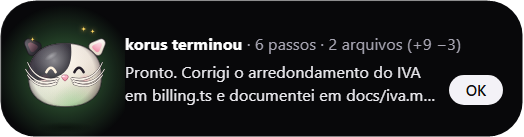
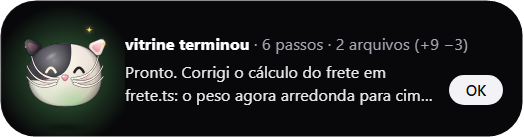
Exemplos nossos no lugar dos do Coucou: vitrine e frete.ts
- as fotos do README foram refeitas com o projeto de exemplo vitrine (uma loja), editando frete.ts
  e terminando com "Corrigi o cálculo do frete"; o cartão e o fim, com uma sessão só na conta
- korus, billing.ts e o IVA/TVA vinham do exemplo do Coucou: saem do SVG do topo, do README, dos
  comentários, dos testes e dos exemplos das specs (ideias/coucou-instagram.md, que estuda o
  Coucou, fica como está)

diff --git a/test/sessao.test.js b/test/sessao.test.js
@@ -3,7 +3,7 @@ import { test } from 'node:test';
 import { criarSessoes, somaDosArquivos, textoSimples } from '../src/sessao.js';
 
 // eventos no formato comum, como o adaptador do Claude Code entrega
-const base = { fonte: 'claude-code', sessao: 's1', projeto: 'korus' };
+const base = { fonte: 'claude-code', sessao: 's1', projeto: 'vitrine' };
 const ev = (tipo, extra = {}) => ({ ...base, tipo, resumo: tipo, ...extra });
 const ferramenta = (id, resumo) => ev('ferramenta', { ferramenta: 'Bash', passoId: id, resumo });
 const editou = (id, caminho, mais, menos) =>
@@ -15,14 +15,14 @@ const estados = s => s.passos.map(p => `${p.estado}:${p.resumo}`);
 test('os passos contam desde o último prompt, e cada um fica ✓ com o resultado dele (D1, D2)', () => {
   const S = criarSessoes();
   S.receber(ev('pensando'));
-  S.receber(ferramenta('a', 'Lendo billing.ts'));
+  S.receber(ferramenta('a', 'Lendo frete.ts'));
   S.receber(ferramenta('b', 'Rodando npm test'));
   // chamadas em paralelo: começar o b não conclui o a
-  assert.deepEqual(estados(S.obter(base)), ['atual:Lendo billing.ts', 'atual:Rodando npm test']);
+  assert.deepEqual(estados(S.obter(base)), ['atual:Lendo frete.ts', 'atual:Rodando npm test']);
   const s = S.receber(concluiu('a'));
   assert.equal(s.total, 2);
-  assert.deepEqual(estados(s), ['ok:Lendo billing.ts', 'atual:Rodando npm test']);
-  assert.equal(s.projeto, 'korus');
+  assert.deepEqual(estados(s), ['ok:Lendo frete.ts', 'atual:Rodando npm test']);
+  assert.equal(s.projeto, 'vitrine');
 
   S.receber(ev('pensando'));
   assert.equal(S.obter(base).total, 0, 'prompt novo zera');
@@ -32,7 +32,7 @@ test('os passos contam desde o último prompt, e cada um fica ✓ com o resultad
 test('um id que não está entre os 10 guardados não mexe em outro passo (Codex, 07/10)', () => {
   const S = criarSessoes();
   for (let i = 0; i <= 10; i++) S.receber(ferramenta(`p${i}`, `passo ${i}`));
-  const s = S.receber(editou('p0', 'C:\\korus\\a.ts', 7, 1));
+  const s = S.receber(editou('p0', 'C:\\vitrine\\a.ts', 7, 1));
   assert.equal(s.passos.at(-1).estado, 'atual', 'o p10 continua em curso');
   assert.equal(s.passos.at(-1).conta, null);
   assert.deepEqual(somaDosArquivos(s), { arquivos: 1, mais: 7, menos: 1 }, 'a soma do p0 conta, mesmo fora da tela');
@@ -44,7 +44,7 @@ test('um resultado atrasado do prompt anterior não mexe no prompt novo (Codex, 
   S.receber(ev('pensando'));
   S.receber(ferramenta('novo', 'Lendo x'));
   S.receber(ev('erro', { ferramenta: 'Bash', passoId: 'velho' }));
-  S.receber(editou('velho', 'C:\\korus\\a.ts', 3, 0));
+  S.receber(editou('velho', 'C:\\vitrine\\a.ts', 3, 0));
   const s = S.obter(base);
   assert.deepEqual(estados(s), ['atual:Lendo x']);
   assert.deepEqual(somaDosArquivos(s), { arquivos: 0, mais: 0, menos: 0 });
@@ -68,8 +68,8 @@ test('a contagem segue além dos 10 passos guardados', () => {
 
 test('o +N −M vai para o passo certo pelo id, e o passo fica ✓', () => {
   const S = criarSessoes();
-  S.receber(ferramenta('e1', 'Editando billing.ts'));
-  const s = S.receber(editou('e1', 'C:\\korus\\billing.ts', 3, 1));
+  S.receber(ferramenta('e1', 'Editando frete.ts'));
+  const s = S.receber(editou('e1', 'C:\\vitrine\\frete.ts', 3, 1));
   assert.deepEqual(s.passos[0].conta, { mais: 3, menos: 1 });
   assert.equal(s.passos[0].estado, 'ok');
 });
@@ -83,11 +83,11 @@ test('sem id, o +N −M vai para o último passo', () => {
 
 test('a soma conta cada arquivo uma vez, com o +N −M de todas as edições dele', () => {
   const S = criarSessoes();
-  S.receber(ferramenta('1', 'x')); S.receber(editou('1', 'C:\\korus\\billing.ts', 3, 1));
-  S.receber(ferramenta('2', 'x')); S.receber(editou('2', 'c:/KORUS/billing.ts', 2, 2));
-  S.receber(ferramenta('3', 'x')); S.receber(editou('3', 'C:\\korus\\novo.md', 7, 0));
+  S.receber(ferramenta('1', 'x')); S.receber(editou('1', 'C:\\vitrine\\frete.ts', 3, 1));
+  S.receber(ferramenta('2', 'x')); S.receber(editou('2', 'c:/VITRINE/frete.ts', 2, 2));
+  S.receber(ferramenta('3', 'x')); S.receber(editou('3', 'C:\\vitrine\\novo.md', 7, 0));
   // uma edição sem conta (formato desconhecido) ainda conta o arquivo
-  S.receber(ferramenta('4', 'x')); S.receber(ev('concluiu', { passoId: '4', edicao: { caminho: 'C:\\korus\\outro.ts', conta: null } }));
+  S.receber(ferramenta('4', 'x')); S.receber(ev('concluiu', { passoId: '4', edicao: { caminho: 'C:\\vitrine\\outro.ts', conta: null } }));
   assert.deepEqual(somaDosArquivos(S.obter(base)), { arquivos: 3, mais: 12, menos: 3 });
 });
 
@@ -123,8 +123,8 @@ test('um pedido não vira passo', () => {
 test('o fim conclui o passo e guarda a mensagem sem Markdown; o próximo evento o tira (D4, D4b)', () => {
   const S = criarSessoes();
   S.receber(ferramenta('a', 'Rodando npm test'));
-  const s = S.receber(ev('fim', { mensagem: 'Corrigi o **arredondamento**, `48` testes passando.' }));
-  assert.deepEqual(s.fim, { mensagem: 'Corrigi o arredondamento, 48 testes passando.', falhou: false });
+  const s = S.receber(ev('fim', { mensagem: 'Corrigi o **cálculo do frete**, `48` testes passando.' }));
+  assert.deepEqual(s.fim, { mensagem: 'Corrigi o cálculo do frete, 48 testes passando.', falhou: false });
   assert.equal(s.passos[0].estado, 'ok');
   assert.equal(s.total, 1, 'o fim não zera a contagem: o cartão mostra os passos');
 
@@ -264,7 +264,7 @@ test('cada passo guarda a hora (para a linha do tempo)', () => {
 
 test('textoSimples tira a marcação do Markdown', () => {
   const casos = [
-    ['## Pronto\n\nCorrigi o **IVA** em `billing.ts`.', 'Pronto. Corrigi o IVA em billing.ts.'],
+    ['## Pronto\n\nCorrigi o **frete** em `frete.ts`.', 'Pronto. Corrigi o frete em frete.ts.'],
     ['# Feito! ##\nok', 'Feito! ok'],
     ['Mudei:\n- um\n- **dois**\n1. três;', 'Mudei: um. dois. três;'],
     ['Veja [a doc](https://x.dev) e *isto*.', 'Veja a doc e isto.'],

diff --git a/test/claude-code.test.js b/test/claude-code.test.js
@@ -7,7 +7,7 @@ const { ADAPTADOR_CLAUDE_CODE: A } = carregar(
   ['ADAPTADOR_CLAUDE_CODE'],
 );
 
-const base = { session_id: 's1', cwd: 'C:\\Users\\vinic\\projetos\\korus' };
+const base = { session_id: 's1', cwd: 'C:\\Users\\vinic\\projetos\\vitrine' };
 const hook = (nome, extra = {}) => A.traduzir({ ...base, hook_event_name: nome, ...extra });
 
 test('cada um dos 9 hooks vira o tipo certo', () => {
@@ -20,7 +20,7 @@ test('cada um dos 9 hooks vira o tipo certo', () => {
     assert.equal(e.tipo, tipo, nome);
     assert.equal(e.fonte, 'claude-code');
     assert.equal(e.sessao, 's1');
-    assert.equal(e.projeto, 'korus');
+    assert.equal(e.projeto, 'vitrine');
   }
 });
 
@@ -33,10 +33,10 @@ test('o resumo de cada ferramenta', () => {
   const casos = [
     ['Bash', { command: 'npm test' }, 'Rodando npm test'],
     ['PowerShell', { command: 'git status', description: 'x' }, 'Rodando git status'],
-    ['Read', { file_path: 'C:\\x\\src\\billing.ts' }, 'Lendo billing.ts'],
-    ['Edit', { file_path: '/home/x/billing.ts' }, 'Editando billing.ts'],
+    ['Read', { file_path: 'C:\\x\\src\\frete.ts' }, 'Lendo frete.ts'],
+    ['Edit', { file_path: '/home/x/frete.ts' }, 'Editando frete.ts'],
     ['Write', { file_path: 'C:\\x\\novo.md' }, 'Escrevendo novo.md'],
-    ['Grep', { pattern: 'TVA' }, 'Procurando TVA'],
+    ['Grep', { pattern: 'FRETE' }, 'Procurando FRETE'],
     ['WebFetch', { url: 'https://docs.claude.com/hooks?x=1' }, 'Abrindo docs.claude.com'],
     ['Task', {}, 'Chamando um ajudante'],
     ['FerramentaNova', {}, 'Usando FerramentaNova'],
@@ -62,7 +62,7 @@ test('campos que faltam ou vêm nulos não quebram o adaptador', () => {
   assert.doesNotThrow(() => hook('PreToolUse', { tool_name: 'Read' }));
   assert.equal(hook('PreToolUse', { tool_name: 'Bash', tool_input: null }).resumo, 'Rodando');
   assert.equal(A.traduzir({ hook_event_name: 'Stop' }).projeto, undefined);
-  assert.equal(A.traduzir({ hook_event_name: 'Stop', cwd: 'C:\\x\\korus\\' }).projeto, 'korus');
+  assert.equal(A.traduzir({ hook_event_name: 'Stop', cwd: 'C:\\x\\vitrine\\' }).projeto, 'vitrine');
 });
 
 test('o pedido diz o verbo e o alvo', () => {
@@ -72,10 +72,10 @@ test('o pedido diz o verbo e o alvo', () => {
   assert.deepEqual({ ...pedido('Bash', { command: "cat <<'EOF'\nsegredo\nEOF" }) }, { verbo: 'rodar', alvo: "cat <<'EOF' …" });
   assert.equal(pedido('Bash', { command: 'x'.repeat(900) }).alvo.length, 500);
   // dentro do projeto: relativo; fora: o caminho inteiro
-  assert.deepEqual({ ...pedido('Edit', { file_path: 'C:\\Users\\vinic\\projetos\\korus\\src\\billing.ts' }) }, { verbo: 'editar', alvo: 'src/billing.ts' });
-  assert.equal(pedido('Write', { file_path: 'c:/users/vinic/projetos/KORUS/.env' }).alvo, '.env');
+  assert.deepEqual({ ...pedido('Edit', { file_path: 'C:\\Users\\vinic\\projetos\\vitrine\\src\\frete.ts' }) }, { verbo: 'editar', alvo: 'src/frete.ts' });
+  assert.equal(pedido('Write', { file_path: 'c:/users/vinic/projetos/VITRINE/.env' }).alvo, '.env');
   assert.equal(pedido('Write', { file_path: 'C:\\Users\\vinic\\.ssh\\config' }).alvo, 'C:\\Users\\vinic\\.ssh\\config');
-  assert.equal(pedido('Write', { file_path: 'C:\\Users\\vinic\\projetos\\korus-velho\\a.txt' }).alvo, 'C:\\Users\\vinic\\projetos\\korus-velho\\a.txt', 'pasta vizinha com o mesmo começo não é o projeto');
+  assert.equal(pedido('Write', { file_path: 'C:\\Users\\vinic\\projetos\\vitrine-velho\\a.txt' }).alvo, 'C:\\Users\\vinic\\projetos\\vitrine-velho\\a.txt', 'pasta vizinha com o mesmo começo não é o projeto');
   assert.deepEqual({ ...pedido('FerramentaNova', {}) }, { verbo: 'usar', alvo: 'FerramentaNova' });
   assert.doesNotThrow(() => pedido('Bash', null));
   assert.equal(hook('PreToolUse', { tool_name: 'Bash', tool_input: { command: 'ls' } }).pedido, undefined);
@@ -147,7 +147,7 @@ test('patch em formato desconhecido fica sem conta, e nada quebra', () => {
 });
 
 test('o Stop leva a mensagem final crua, ou null', () => {
-  assert.equal(hook('Stop', { last_assistant_message: 'Corrigi o **IVA**.' }).mensagem, 'Corrigi o **IVA**.');
+  assert.equal(hook('Stop', { last_assistant_message: 'Corrigi o **frete**.' }).mensagem, 'Corrigi o **frete**.');
   assert.equal(hook('Stop').mensagem, null);
   assert.equal(hook('Stop', { last_assistant_message: 42 }).mensagem, null);
 });
@@ -192,9 +192,9 @@ test('pedidos de leitura e busca dizem o arquivo ou a pasta', () => {
   const pedido = (tool_name, tool_input) => hook('PermissionRequest', { tool_name, tool_input }).pedido;
   assert.deepEqual({ ...pedido('Read', { file_path: 'C:\\Users\\vinic\\Documents\\Claude\\CLAUDE.md' }) },
     { verbo: 'ler', alvo: 'C:\\Users\\vinic\\Documents\\Claude\\CLAUDE.md' });
-  assert.equal(pedido('Read', { file_path: 'C:\\Users\\vinic\\projetos\\korus\\src\\a.ts' }).alvo, 'src/a.ts');
-  assert.deepEqual({ ...pedido('Grep', { pattern: 'TVA', path: 'C:\\Users\\vinic\\Documents\\Claude' }) },
-    { verbo: 'procurar', alvo: 'TVA em C:\\Users\\vinic\\Documents\\Claude' });
+  assert.equal(pedido('Read', { file_path: 'C:\\Users\\vinic\\projetos\\vitrine\\src\\a.ts' }).alvo, 'src/a.ts');
+  assert.deepEqual({ ...pedido('Grep', { pattern: 'FRETE', path: 'C:\\Users\\vinic\\Documents\\Claude' }) },
+    { verbo: 'procurar', alvo: 'FRETE em C:\\Users\\vinic\\Documents\\Claude' });
   assert.equal(pedido('Glob', { pattern: '**/*.md' }).alvo, '**/*.md');
 });
 

diff --git a/test/diff.test.js b/test/diff.test.js
@@ -13,10 +13,10 @@ test('CRLF e LF contam como o mesmo texto', () => {
 });
 
 test('uma linha trocada é −1 +1, com os números de linha certos', () => {
-  const ops = diffLinhas('const TVA = 0.196;\nfim\n', 'const TVA = 0.20;\nfim\n');
+  const ops = diffLinhas('const FRETE = 0.196;\nfim\n', 'const FRETE = 0.20;\nfim\n');
   assert.deepEqual(contar(ops), { mais: 1, menos: 1 });
-  assert.deepEqual(ops.find(o => o.tipo === '-'), { tipo: '-', texto: 'const TVA = 0.196;', a: 1, b: null });
-  assert.deepEqual(ops.find(o => o.tipo === '+'), { tipo: '+', texto: 'const TVA = 0.20;', a: null, b: 1 });
+  assert.deepEqual(ops.find(o => o.tipo === '-'), { tipo: '-', texto: 'const FRETE = 0.196;', a: 1, b: null });
+  assert.deepEqual(ops.find(o => o.tipo === '+'), { tipo: '+', texto: 'const FRETE = 0.20;', a: null, b: 1 });
 });
 
 test('inserir no meio não marca o resto como mudado', () => {

diff --git a/src/ilha.js b/src/ilha.js
@@ -183,7 +183,7 @@ function mostrarEvento(evento) {
   }
 }
 
-// D4, D4b: "korus terminou · 9 passos · 2 arquivos (+12 −4)", a mensagem final e o OK
+// D4, D4b: "vitrine terminou · 9 passos · 2 arquivos (+12 −4)", a mensagem final e o OK
 function mostrarFim(evento, sessao) {
   const { falhou, mensagem } = sessao.fim;
   definirEstado(falhou ? 'erro' : 'feliz');
@@ -240,7 +240,7 @@ function mostrarConta() {
   $('bt-sessoes').textContent = TEXTOS.cartao.sessoes(n);
 }
 
-// o pedido na tela: "korus · quer rodar · Claude Code", o alvo e os botões
+// o pedido na tela: "vitrine · quer rodar · Claude Code", o alvo e os botões
 function mostrarPedido(evento, mais) {
   definirEstado('esperando');
   const { verbo, alvo } = evento.pedido ?? { verbo: '', alvo: evento.resumo };

diff --git a/test/ponte.test.js b/test/ponte.test.js
@@ -27,8 +27,8 @@ async function montar() {
   return { Ponte, respostas, mudancas, avisar };
 }
 
-const base = { session_id: 's1', cwd: 'C:/korus' };
-const ler = arquivo => ({ tool_name: 'Read', tool_input: { file_path: `C:/korus/${arquivo}` } });
+const base = { session_id: 's1', cwd: 'C:/vitrine' };
+const ler = arquivo => ({ tool_name: 'Read', tool_input: { file_path: `C:/vitrine/${arquivo}` } });
 const evento = (corpo) => ({ aviso: 'evento', fonte: 'claude-code', corpo: { ...base, ...corpo } });
 const pre = (id, f) => evento({ hook_event_name: 'PreToolUse', tool_use_id: id, ...f });
 const pos = (id, f) => evento({ hook_event_name: 'PostToolUse', tool_use_id: id, ...f, tool_response: {} });

diff --git a/README.md b/README.md
@@ -24,24 +24,24 @@ e deixa você dizer *pode* ou *não* para um pedido de permissão sem voltar ao 
 
 ## Um turno de trabalho, visto do topo da tela
 
-Você pede *"corrige o arredondamento do IVA e roda os testes"* e vai ler outra coisa. A pílula
+Você pede *"corrige o cálculo do frete e roda os testes"* e vai ler outra coisa. A pílula
 fica lá em cima, do tamanho de um notificador, e vai contando.
 
 <table>
 <tr>
-<td width="56%"><img src="docs/readme/cartao.png" alt="Ilha aberta: korus, 3 passos; Editando billing.ts +3 −1 com um tique verde; Rodando npm test com um X vermelho"></td>
+<td width="56%"><img src="docs/readme/cartao.png" alt="Ilha aberta: vitrine, 3 passos; Editando frete.ts +3 −1 com um tique verde; Rodando npm test com um X vermelho"></td>
 <td><b>Passe o mouse e ela abre.</b> O passo de antes e o de agora, o <code>+3 −1</code> de cada edição (contado do patch que o Claude Code de fato gravou) e o ✗ do teste que falhou. O gato fica com a cara de quem viu.</td>
 </tr>
 <tr>
-<td><img src="docs/readme/pedido.png" alt="Ilha âmbar: korus quer rodar git push origin main, com os botões Negar, Permitir e No terminal"></td>
+<td><img src="docs/readme/pedido.png" alt="Ilha âmbar: vitrine quer rodar git push origin main, com os botões Negar, Permitir e No terminal"></td>
 <td><b>Na hora do <code>git push</code>, ela pede licença.</b> Abre sozinha, fica âmbar e mostra o comando inteiro. Você responde dali, sem mudar de janela, e ela nunca rouba o foco de quem está digitando. O terminal pergunta junto, e vale quem responder primeiro.</td>
 </tr>
 <tr>
-<td><img src="docs/readme/fim.png" alt="Ilha com o gato feliz: korus terminou, 6 passos, 2 arquivos (+9 −3), a mensagem final e o botão OK"></td>
+<td><img src="docs/readme/fim.png" alt="Ilha com o gato feliz: vitrine terminou, 6 passos, 2 arquivos (+9 −3), a mensagem final e o botão OK"></td>
 <td><b>Terminou?</b> A ilha abre com o resumo da sessão e o começo do que o Claude disse no fim, sem o Markdown. Fica aberta até você dar OK, para quem estava longe da tela ainda encontrar o resultado.</td>
 </tr>
 <tr>
-<td><img src="docs/readme/sessoes.png" alt="Ilha mostrando a sessão korus com o botão 3 sessões"></td>
+<td><img src="docs/readme/sessoes.png" alt="Ilha mostrando a sessão vitrine com o botão 3 sessões"></td>
 <td><b>Mais de uma sessão?</b> Ela mostra a que mudou por último, e um clique em <i>3 sessões ›</i> passa para a próxima. Fechar o terminal de uma sessão tira ela da conta na hora.</td>
 </tr>
 </table>
@@ -147,13 +147,13 @@ Com o app aberto, mande um evento como se fosse um hook:
 
 ```powershell
 $cfg = Get-Content "$env:APPDATA\app.xereta.ilha\config.json" | ConvertFrom-Json
-$corpo = @{ hook_event_name = 'PreToolUse'; session_id = 'teste'; cwd = 'C:\projetos\korus'
+$corpo = @{ hook_event_name = 'PreToolUse'; session_id = 'teste'; cwd = 'C:\projetos\vitrine'
             tool_name = 'Bash'; tool_use_id = 't1'; tool_input = @{ command = 'npm test' } } | ConvertTo-Json
 Invoke-RestMethod -Method Post -Uri "http://127.0.0.1:$($cfg.porta)/fontes/claude-code/evento" `
   -Headers @{ Authorization = "Bearer $($cfg.token)" } -ContentType 'application/json' -Body $corpo
 ```
 
-A ilha mostra "korus · Claude Code · Rodando npm test". Trocando `evento` por `pedido` e o
+A ilha mostra "vitrine · Claude Code · Rodando npm test". Trocando `evento` por `pedido` e o
 `hook_event_name` por `PermissionRequest`, a chamada fica esperando até você responder pelos
 botões da ilha (ou até 15 s).
 

diff --git a/specs/002-sessao-na-ilha.md b/specs/002-sessao-na-ilha.md
@@ -14,7 +14,7 @@ contar **a sessão**: o que já foi feito, quanto mudou e como terminou. E faz o
 cada momento de um jeito que se lê até na pílula de 34 px.
 
 **Uma frase de sucesso:** volto do café, olho a pílula e vejo pelo gato que a sessão terminou.
-Passo o mouse e leio: *"korus · 7 passos · billing.ts +3 −1 · Corrigi o arredondamento, 48
+Passo o mouse e leio: *"vitrine · 7 passos · frete.ts +3 −1 · Corrigi o cálculo do frete, 48
 testes passando."* Não preciso abrir o terminal para saber o que aconteceu.
 
 ---
@@ -57,15 +57,15 @@ testes passando."* Não preciso abrir o terminal para saber o que aconteceu.
 
 **Ilha aberta, trabalhando:**
 ```
- [gato]  korus · Claude Code                         7 passos · 2 sessões
-         ✓ Editando billing.ts   +3 −1
+ [gato]  vitrine · Claude Code                         7 passos · 2 sessões
+         ✓ Editando frete.ts   +3 −1
          › Rodando npm test
 ```
 
 **Ilha aberta, no fim:**
 ```
- [gato feliz]  korus terminou · 9 passos · 2 arquivos (+12 −4)
-               Corrigi o arredondamento do IVA, 48 testes passando…   [ OK ]
+ [gato feliz]  vitrine terminou · 9 passos · 2 arquivos (+12 −4)
+               Corrigi o cálculo do frete, 48 testes passando…   [ OK ]
 ```
 
 **Novos estados do gato** (somam-se aos 6 estados e às 8 caras):
@@ -121,10 +121,10 @@ enquanto está recolhida (D10).
 >   e a mensagem sem Markdown (título e item de lista viram frase; bloco de código sai). Até 20
 >   sessões; a que mudou há mais tempo sai primeiro.
 > - **Ilha:** o cartão mostra o passo anterior e o atual (o status que não é passo, como "No
->   terminal: …", entra como a linha atual); o do fim mostra "korus terminou · 6 passos · 2
+>   terminal: …", entra como a linha atual); o do fim mostra "vitrine terminou · 6 passos · 2
 >   arquivos (+9 −3)", duas linhas da mensagem e o OK. Um pedido continua tomando a ilha inteira.
 > - **Conferido com uma sessão simulada pela ponte** (fotos da tela a 125%): ✗ no `npm test` que
->   falhou, `+3 −1` e `+2 −2` no `billing.ts`, a soma do fim certa, o pedido âmbar por cima do
+>   falhou, `+3 −1` e `+2 −2` no `frete.ts`, a soma do fim certa, o pedido âmbar por cima do
 >   cartão e, depois de 15 s, "› No terminal: Rodando git push…" com resposta vazia. A sessão
 >   real desta conversa também apareceu no cartão, com os passos certos. **Testes em JS: 44 → 66.**
 > - **Teste na mão por você (07/10), sessão real em `Desktop\Teste`:** `replace_all`, arquivo
@@ -187,8 +187,8 @@ enquanto está recolhida (D10).
 > a seguinte (`seguinte`), com 5 testes novos; a ilha guarda o último status **de cada sessão** (antes
 > era um só, e uma sessão apagava a outra). Na pílula, um "3" pequeno; na ilha aberta, "3 sessões ›"
 > ao lado dos passos, que some durante um pedido. **Conferido com sessões simuladas e cliques de
-> verdade na tela:** a que mudou por último aparece; três cliques dão a volta (rdo → korus → esta
-> conversa); o cartão do fim da korus fica na frente da rdo trabalhando e abre a ilha sozinho; o OK
+> verdade na tela:** a que mudou por último aparece; três cliques dão a volta (rdo → vitrine → esta
+> conversa); o cartão do fim da vitrine fica na frente da rdo trabalhando e abre a ilha sozinho; o OK
 > passa para a outra; o `SessionEnd` tira da conta (3 → 2). **Testes em JS: 86.**
 >
 > **Achado no caminho, do teste e não do app:** um cursor que **pula** para fora da ilha (o

diff --git a/specs/001-mvp.md b/specs/001-mvp.md
@@ -107,7 +107,7 @@ vez com um token de 32 bytes do gerador do sistema. O instalador da E3 lê o tok
 {
   fonte: 'claude-code',          // amanhã: 'codex', 'gemini', 'ollama', 'script'
   sessao: '<session_id>',
-  projeto: 'korus',              // nome da pasta do cwd
+  projeto: 'vitrine',              // nome da pasta do cwd
   tipo: 'inicio' | 'pensando' | 'ferramenta' | 'permissao' | 'erro' | 'fim' | 'saida',
   resumo: 'Rodando npm test',    // o que a ilha escreve
   pedidoId: '…'                  // só em 'permissao': liga o clique ao pedido certo
@@ -120,7 +120,7 @@ vez com um token de 32 bytes do gerador do sistema. O instalador da E3 lê o tok
 |---|---|---|
 | ~~`SessionStart`~~ | `inicio` | **Não instalado** (05/10): o Claude Code ignora hook `http` no `SessionStart` e no `Setup` ("HTTP hooks are not supported for SessionStart", 2.1.289). A sessão aparece no primeiro `UserPromptSubmit`, que traz o `session_id` e a pasta |
 | `UserPromptSubmit` | `pensando` | Mascote pensando |
-| `PreToolUse` | `ferramenta` | "Lendo billing.ts", "Editando billing.ts", "Rodando npm test" |
+| `PreToolUse` | `ferramenta` | "Lendo frete.ts", "Editando frete.ts", "Rodando npm test" |
 | `PostToolUseFailure` | `erro` | Careta rápida, sem travar |
 | `PermissionRequest` | `permissao` | Ilha amarela e expandida, com Permitir, Negar e No terminal |
 | `Stop` | `fim` | Mascote feliz |
@@ -276,7 +276,7 @@ A resposta de permissão segue o formato dos docs:
 >
 > **Medido com `curl` no app em dev:**
 > - Sem token / token errado → `401`, e a ilha não mudou.
-> - Evento → `200` vazio em **2–5 ms**, e a ilha mostrou "korus · Claude Code · Rodando npm test".
+> - Evento → `200` vazio em **2–5 ms**, e a ilha mostrou "vitrine · Claude Code · Rodando npm test".
 > - Dois pedidos ao mesmo tempo → a ilha mostrou o primeiro com "+1"; Permitir no primeiro e
 >   Negar no segundo devolveram exatamente
 >   `{"hookSpecificOutput":{"hookEventName":"PermissionRequest","decision":{"behavior":"allow"}}}`

diff --git a/specs/003-decidir-com-confianca.md b/specs/003-decidir-com-confianca.md
@@ -9,7 +9,7 @@
 
 ## 1. Objetivo
 
-Na 001 você aprova pela ilha, mas aprova **no escuro**: vê `Editar billing.ts` e não vê o que
+Na 001 você aprova pela ilha, mas aprova **no escuro**: vê `Editar frete.ts` e não vê o que
 muda. A 003 dá à ilha o que é preciso para decidir bem:
 
 1. **O diff no próprio pedido**, antes do Permitir.
@@ -59,7 +59,7 @@ e não existe lista de regras. Nada parecido com o nível de risco apareceu.
 
 ```
 ┌──────────────────────────────────────────────────────────────┐
-│ [gato arrepiado]  korus quer EDITAR  .env           RISCO ALTO │
+│ [gato arrepiado]  vitrine quer EDITAR  .env           RISCO ALTO │
 │                   mexe em arquivo de segredo                   │
 │ ┌──────────────────────────────────────────────────────────┐ │
 │ │ 12  DATABASE_URL=postgres://…                            │ │

diff --git a/specs/005-configuracoes-e-conforto.md b/specs/005-configuracoes-e-conforto.md
@@ -127,7 +127,7 @@ hooks, com prévia.
 - O "Som" da bandeja silencia e devolve todos os sons com um clique.
 
 ### F4b — Modo apresentação (ideia de 05/10)
-- Ligado pela bandeja: um pedido de `Edit` em `C:\Users\…\korus\.env` mostra só `.env`, um Bash
+- Ligado pela bandeja: um pedido de `Edit` em `C:\Users\…\vitrine\.env` mostra só `.env`, um Bash
   mostra só o programa, e a mensagem final e o diff aparecem como "oculto no modo apresentação".
   Permitir e Negar continuam funcionando.
 - Um texto com `sk-…`, `ghp_…` ou um hexadecimal de 64 caracteres aparece como `•••` (com um teste

diff --git a/specs/004-responder-ao-claude.md b/specs/004-responder-ao-claude.md
@@ -54,7 +54,7 @@ sessão segue.
 
 ```
 ┌──────────────────────────────────────────────────────────────┐
-│ [gato ?]  korus pergunta                                1 de 2 │
+│ [gato ?]  vitrine pergunta                                1 de 2 │
 │           Qual banco para o catálogo de cursos?                │
 │   ( Postgres full-text )  ( Meilisearch )  ( Algolia )         │
 │   [ escrever outra resposta… ]                                 │
